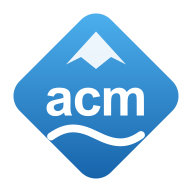
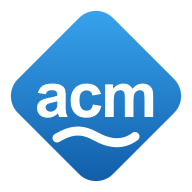
feat(site): new footer with developer credit, bento gallery, top-4 events, new hero buttons
- Footer rebuilt: brand, quick links, contact, and a "Designed & developed by
  Eng. Mohamed Amin" credit linking to GitHub (plus meta author, /humans.txt
  and a console signature).
- Header brand reads "ACM Sinai / Student Chapter"; Orbitron replaced by
  JetBrains Mono for the small technical labels.
- Hero buttons: a pill with a running border light and sliding arrow, and a
  terminal-style "$ explore tracks" with a blinking caret. Both follow the
  mouse slightly.
- Past events show four (pinned ones first, new "Pin" option in the
  dashboard); the rest open with "Show all". Gallery is a bento grid with the
  same "Show all" beyond four albums.
- Advisory board back to a free-flowing wrap, tighter on phones.
- Clearer favicon: bold "a" at 16px, "acm" from 20px up, real favicon.ico.

Changed region(s): [[0.0312, 0.0312, 0.9688, 0.9688], [0.3438, 0.1562, 0.6562, 0.375]]

diff --git a/styles/input.css b/styles/input.css
@@ -206,7 +206,93 @@ body.lb-open { overflow: hidden; }
   .js-motion [data-reveal] { transition-duration: .45s; }
   .js-motion [data-reveal]:not(.is-in) { transform: translateY(12px); }
   .hero-line { animation-duration: .6s; filter: none; }
+  .btn-join::before { animation-duration: 6s; }
 }
+
+
+/* ---------- Hero buttons ---------- */
+/* Join: a solid pill whose border light runs around it; the arrow slides out on hover. */
+@property --spin { syntax: '<angle>'; initial-value: 0deg; inherits: false; }
+.btn-join {
+  --spin: 0deg;
+  position: relative; isolation: isolate; display: inline-flex; align-items: center; gap: .9rem;
+  padding: .55rem .55rem .55rem 1.6rem; border-radius: 9999px; font-weight: 800; font-size: 1.05rem; color: #fff;
+  background: linear-gradient(135deg, #1866AD, #1d7fd1);
+  box-shadow: 0 10px 28px rgb(24 102 173 / .35);
+  transition: transform .25s ease, box-shadow .25s ease;
+}
+.btn-join::before {
+  content: ""; position: absolute; inset: -2px; z-index: -1; border-radius: inherit;
+  background: conic-gradient(from var(--spin), transparent 0 70%, #7dd3fc 80%, #ffffff 85%, #38bdf8 90%, transparent 100%);
+  animation: spin 3.2s linear infinite;
+}
+.btn-join::after { content: ""; position: absolute; inset: 0; z-index: -1; border-radius: inherit; background: inherit; }
+.btn-join:hover { box-shadow: 0 16px 36px rgb(24 102 173 / .45); }
+.btn-join-icon {
+  width: 2.6rem; height: 2.6rem; border-radius: 9999px; display: grid; place-items: center;
+  background: rgba(255,255,255,.95); color: #1866AD; overflow: hidden; position: relative;
+}
+.btn-join-icon i { transition: transform .35s cubic-bezier(.2,.7,.2,1); }
+.btn-join:hover .btn-join-icon i { animation: arrowOut .5s cubic-bezier(.2,.7,.2,1); }
+@keyframes arrowOut { 0% { transform: none; } 45% { transform: translateX(160%); } 46% { transform: translateX(-160%); } 100% { transform: none; } }
+@keyframes spin { to { --spin: 360deg; } }
+.dark .btn-join { background: linear-gradient(135deg, #0ea5e9, #22d3ee); color: #06202e; box-shadow: 0 10px 30px rgb(34 211 238 / .25); }
+.dark .btn-join-icon { background: #06202e; color: #67e8f9; }
+
+/* Explore: a terminal prompt, because this is a computing club. */
+.btn-term {
+  display: inline-flex; align-items: center; gap: .55rem; padding: .95rem 1.3rem; border-radius: 1rem;
+  font-family: "JetBrains Mono", ui-monospace, monospace; font-weight: 700; font-size: .98rem;
+  color: rgb(var(--ink)); background: rgb(var(--surface) / .7); border: 1.5px solid rgb(var(--brand) / .35);
+  backdrop-filter: blur(8px); -webkit-backdrop-filter: blur(8px);
+  transition: border-color .2s ease, background-color .2s ease, transform .25s ease;
+}
+@media (max-width: 639px) { .btn-join, .btn-term { width: 100%; max-width: 290px; } .btn-join { justify-content: space-between; } .btn-term { justify-content: center; } }
+.btn-term:hover { border-color: rgb(var(--brand)); background: rgb(var(--brand-soft) / .8); }
+.btn-term-prompt { color: rgb(var(--brand)); }
+.btn-term-caret { width: .55em; height: 1.1em; background: rgb(var(--brand)); border-radius: 1px; animation: caret 1.05s steps(1) infinite; }
+@keyframes caret { 50% { opacity: 0; } }
+.dark .btn-term { background: rgba(15,23,42,.55); }
+
+/* Show more */
+.btn-more {
+  display: inline-flex; align-items: center; gap: .6rem; padding: .8rem 1.5rem; border-radius: 9999px; font-weight: 700;
+  color: rgb(var(--brand)); background: rgb(var(--surface) / .75); border: 1.5px solid rgb(var(--brand) / .3);
+  transition: background-color .2s ease, border-color .2s ease;
+}
+.btn-more:hover { background: rgb(var(--brand-soft)); border-color: rgb(var(--brand)); }
+.btn-more i { transition: transform .3s ease; }
+.btn-more[aria-expanded="true"] i { transform: rotate(180deg); }
+.dark .btn-more { background: rgba(15,23,42,.55); }
+.more-hidden { display: none !important; }
+
+/* ---------- Gallery bento ---------- */
+.album-tile { position: relative; display: block; text-align: left; border-radius: 1.5rem; min-height: 0; }
+.album-face { position: absolute; inset: 0; border-radius: inherit; overflow: hidden; background: rgb(var(--surface-2)); box-shadow: 0 10px 30px rgba(15,23,42,.12); }
+/* Two "prints" peek out from behind the album on hover, like a stack of photos. */
+.album-stack, .album-stack::before { position: absolute; inset: 0; border-radius: inherit; background: rgb(var(--brand-soft)); border: 1px solid rgb(var(--brand) / .2); transition: transform .45s cubic-bezier(.2,.7,.2,1); }
+.album-stack::before { content: ""; background: rgb(var(--surface)); }
+.album-tile:hover .album-stack { transform: rotate(-3deg) translate(-6px, 4px); }
+.album-tile:hover .album-stack::before { transform: rotate(5deg) translate(10px, -2px); }
+.album-shade { position: absolute; inset: 0; background: linear-gradient(to top, rgba(2,6,23,.82), rgba(2,6,23,.15) 50%, transparent 75%); }
+.album-meta { position: absolute; left: 1rem; right: 1rem; bottom: .9rem; }
+@media (min-width: 768px) { .album-meta { left: 1.4rem; bottom: 1.25rem; } }
+.album-count { position: absolute; top: .7rem; left: .7rem; display: inline-flex; align-items: center; gap: .4rem; padding: .3rem .65rem; border-radius: 9999px; font-size: .75rem; font-weight: 700; color: #fff; background: rgba(2,6,23,.5); backdrop-filter: blur(6px); }
+.album-open { position: absolute; top: .7rem; right: .7rem; width: 2.2rem; height: 2.2rem; border-radius: 9999px; display: grid; place-items: center; color: #fff; background: rgba(255,255,255,.18); backdrop-filter: blur(6px); opacity: 0; transform: scale(.8); transition: opacity .25s ease, transform .25s ease; }
+.album-tile:hover .album-open { opacity: 1; transform: none; }
+@media (hover: none) { .album-open { opacity: 1; transform: none; } }
+
+/* ---------- Footer ---------- */
+.footer-glow { position: absolute; left: 50%; top: -220px; width: 900px; height: 440px; margin-left: -450px; background: radial-gradient(closest-side, rgba(56,189,248,.14), transparent); pointer-events: none; }
+.footer-head { font-family: "JetBrains Mono", ui-monospace, monospace; font-size: .72rem; letter-spacing: .2em; text-transform: uppercase; color: #7dd3fc; margin-bottom: 1.1rem; font-weight: 700; }
+.footer-link { color: rgb(148 163 184); transition: color .2s ease; display: inline-flex; align-items: center; gap: .35rem; }
+.footer-link:hover { color: #fff; }
+.footer-social { width: 2.6rem; height: 2.6rem; display: grid; place-items: center; border-radius: .9rem; color: rgb(203 213 225); background: rgba(255,255,255,.05); border: 1px solid rgba(255,255,255,.08); transition: all .2s ease; }
+.footer-social:hover { color: #fff; background: rgba(56,189,248,.18); border-color: rgba(56,189,248,.45); transform: translateY(-2px); }
+.dev-credit { display: inline-flex; align-items: center; gap: .6rem; padding: .5rem .9rem .5rem .5rem; border-radius: 9999px; color: rgb(203 213 225); background: rgba(255,255,255,.04); border: 1px solid rgba(255,255,255,.1); transition: all .25s ease; }
+.dev-credit strong { color: #fff; font-weight: 700; }
+.dev-credit:hover { border-color: rgba(56,189,248,.5); background: rgba(56,189,248,.1); box-shadow: 0 0 24px rgba(56,189,248,.18); }
+.dev-credit-mark { font-family: "JetBrains Mono", ui-monospace, monospace; font-weight: 700; font-size: .75rem; color: #0b1220; background: linear-gradient(135deg, #7dd3fc, #38bdf8); border-radius: 9999px; padding: .3rem .55rem; }
 
 /* ============ Admin ============ */
 .admin-body { background: rgb(var(--bg)); color: rgb(var(--ink-soft)); }

diff --git a/public/assets/js/site.js b/public/assets/js/site.js
@@ -117,7 +117,7 @@
       if (lb.last) lb.last.focus();
     };
     document.getElementById('gallery-grid').addEventListener('click', function (e) {
-      var c = e.target.closest('.album-card'); if (c) open(+c.getAttribute('data-album'));
+      var c = e.target.closest('.album-tile'); if (c) open(+c.getAttribute('data-album'));
     });
     lb.thumbs.addEventListener('click', function (e) { var b = e.target.closest('button'); if (b) show(+b.getAttribute('data-i')); });
     document.getElementById('lb-close').addEventListener('click', close);
@@ -241,6 +241,45 @@
       if (atEnd()) track.scrollTo({ left: 0 }); else track.scrollBy({ left: stepSize() });
     }, 4200);
   });
+
+  // ---------- "Show more" for events and gallery ----------
+  document.querySelectorAll('[data-more]').forEach(function (btn) {
+    var group = btn.getAttribute('data-more');
+    var list = document.querySelector('[data-more-list="' + group + '"]');
+    if (!list) return;
+    var items = list.querySelectorAll('[data-more-item]');
+    var label = btn.querySelector('span');
+    btn.addEventListener('click', function () {
+      var open = btn.getAttribute('aria-expanded') !== 'true';
+      btn.setAttribute('aria-expanded', String(open));
+      label.textContent = btn.getAttribute(open ? 'data-less-label' : 'data-more-label');
+      items.forEach(function (el, k) {
+        el.classList.toggle('more-hidden', !open);
+        if (open) { el.style.setProperty('--d', (k % 4) * 80 + 'ms'); el.classList.remove('is-in', 'settled'); }
+      });
+      if (!open) list.scrollIntoView({ block: 'nearest' });
+      send('click', 'more:' + group + (open ? ':open' : ':close'));
+    });
+  });
+
+  // ---------- Magnetic buttons (mouse only) ----------
+  if (window.matchMedia('(hover: hover) and (pointer: fine)').matches) {
+    document.querySelectorAll('[data-magnetic]').forEach(function (el) {
+      el.addEventListener('pointermove', function (e) {
+        var r = el.getBoundingClientRect();
+        var x = e.clientX - (r.left + r.width / 2), y = e.clientY - (r.top + r.height / 2);
+        el.style.transform = 'translate(' + (x * 0.18).toFixed(1) + 'px,' + (y * 0.28).toFixed(1) + 'px)';
+      });
+      el.addEventListener('pointerleave', function () { el.style.transform = ''; });
+    });
+  }
+
+  // Signature for anyone who opens the console.
+  try {
+    console.log('%c ACM Sinai %c Designed & developed by Eng. Mohamed Amin \u2014 https://github.com/Mo1Amin ',
+      'background:#1866AD;color:#fff;padding:4px 8px;border-radius:4px 0 0 4px;font-weight:700',
+      'background:#0b1220;color:#7dd3fc;padding:4px 8px;border-radius:0 4px 4px 0');
+  } catch (e) {}
 
   // ---------- Particle sphere background (interactive) ----------
   function startSphere() {

diff --git a/test/e2e.local.js b/test/e2e.local.js
@@ -28,9 +28,13 @@ const check = (name, ok, extra = '') => { results.push([ok ? 'PASS' : 'FAIL', na
   check('home lists 8 tracks', await page.locator('#tracks a[href^="/tracks/"]').count() === 8);
   check('sphere canvas rendered', await page.locator('#canvas-container canvas').count() === 1);
   check('tracks rail scrolls sideways', await page.evaluate(() => { const r = document.querySelector('[data-rail-track]'); return r.scrollWidth > r.clientWidth; }));
-  check('favicon.ico served', (await page.request.get(B + '/favicon.ico')).headers()['content-type'] === 'image/png');
+  check('favicon.ico served', (await page.request.get(B + '/favicon.ico')).headers()['content-type'] === 'image/x-icon');
   await page.screenshot({ path: path.join(shots, 'home-light.png') });
-  await page.click('#gallery .album-card >> nth=1');
+  check('past events: 4 shown, rest behind a button', await page.locator('#events article:visible').count() === 4 && await page.locator('[data-more=events]').count() === 1);
+  await page.click('[data-more=events]');
+  check('show more reveals every past event', await page.locator('#events article:visible').count() === 5);
+  check('developer credit in footer', await page.locator('footer .dev-credit:has-text("Mohamed Amin")').count() === 1);
+  await page.click('#gallery .album-tile >> nth=1');
   await page.waitForTimeout(400);
   check('lightbox opens', !(await page.locator('#lightbox').evaluate((el) => el.classList.contains('lb-hidden'))));
   await page.keyboard.press('Escape');

diff --git a/src/server.js b/src/server.js
@@ -61,7 +61,8 @@ function createApp() {
   app.use('/assets', express.static(path.join(config.root, 'public', 'assets'), { maxAge: config.isProd ? '7d' : 0 }));
   app.use('/uploads', express.static(config.uploadsDir, { maxAge: '30d', index: false, dotfiles: 'deny' }));
   app.get('/robots.txt', (req, res) => res.type('text/plain').send(`User-agent: *\nDisallow: /admin\nSitemap: ${config.baseUrl}/sitemap.xml\n`));
-  app.get('/favicon.ico', (req, res) => res.type('image/png').set('Cache-Control', 'public, max-age=604800').sendFile(path.join(config.root, 'public', 'assets', 'img', 'favicon-32.png')));
+  app.get('/favicon.ico', (req, res) => res.type('image/x-icon').set('Cache-Control', 'public, max-age=86400').sendFile(path.join(config.root, 'public', 'assets', 'img', 'favicon.ico')));
+  app.get('/humans.txt', (req, res) => res.type('text/plain').send('/* TEAM */\nDesign and development: Eng. Mohamed Amin Abdelwahed Ahmed\nGitHub: https://github.com/Mo1Amin\nRole: Co-founder, Sinai University ACM Student Chapter\n\n/* SITE */\nStack: Node.js, Express, EJS, MariaDB, Tailwind CSS, three.js\n'));
   app.get('/healthz', (req, res) => res.type('text/plain').send('ok'));
 
   // Public site + analytics beacon

diff --git a/src/lib/content.js b/src/lib/content.js
@@ -19,7 +19,8 @@ async function events() {
   const now = nowSql();
   return {
     upcoming: rows.filter((r) => r.starts_at >= now),
-    past: rows.filter((r) => r.starts_at < now).reverse(),
+    // Pinned events lead the list; the rest newest first.
+    past: rows.filter((r) => r.starts_at < now).reverse().sort((a, b) => (b.is_featured || 0) - (a.is_featured || 0)),
   };
 }
 

diff --git a/src/routes/admin.js b/src/routes/admin.js
@@ -214,6 +214,7 @@ router.post(['/events/new', '/events/:id'], need('events'), ...multipart('image'
     register_url: cleanUrl(b.register_url),
     meeting_url: cleanUrl(b.meeting_url),
     is_visible: b.is_visible ? 1 : 0,
+    is_featured: b.is_featured ? 1 : 0,
   };
   const errors = [];
   if (!data.title) errors.push('Title is required.');

diff --git a/tailwind.config.js b/tailwind.config.js
@@ -6,7 +6,7 @@ module.exports = {
     extend: {
       fontFamily: {
         sans: ['Outfit', 'sans-serif'],
-        tech: ['Orbitron', 'sans-serif'],
+        tech: ['"JetBrains Mono"', 'ui-monospace', 'monospace'],
       },
       colors: {
         ink: 'rgb(var(--ink) / <alpha-value>)',
